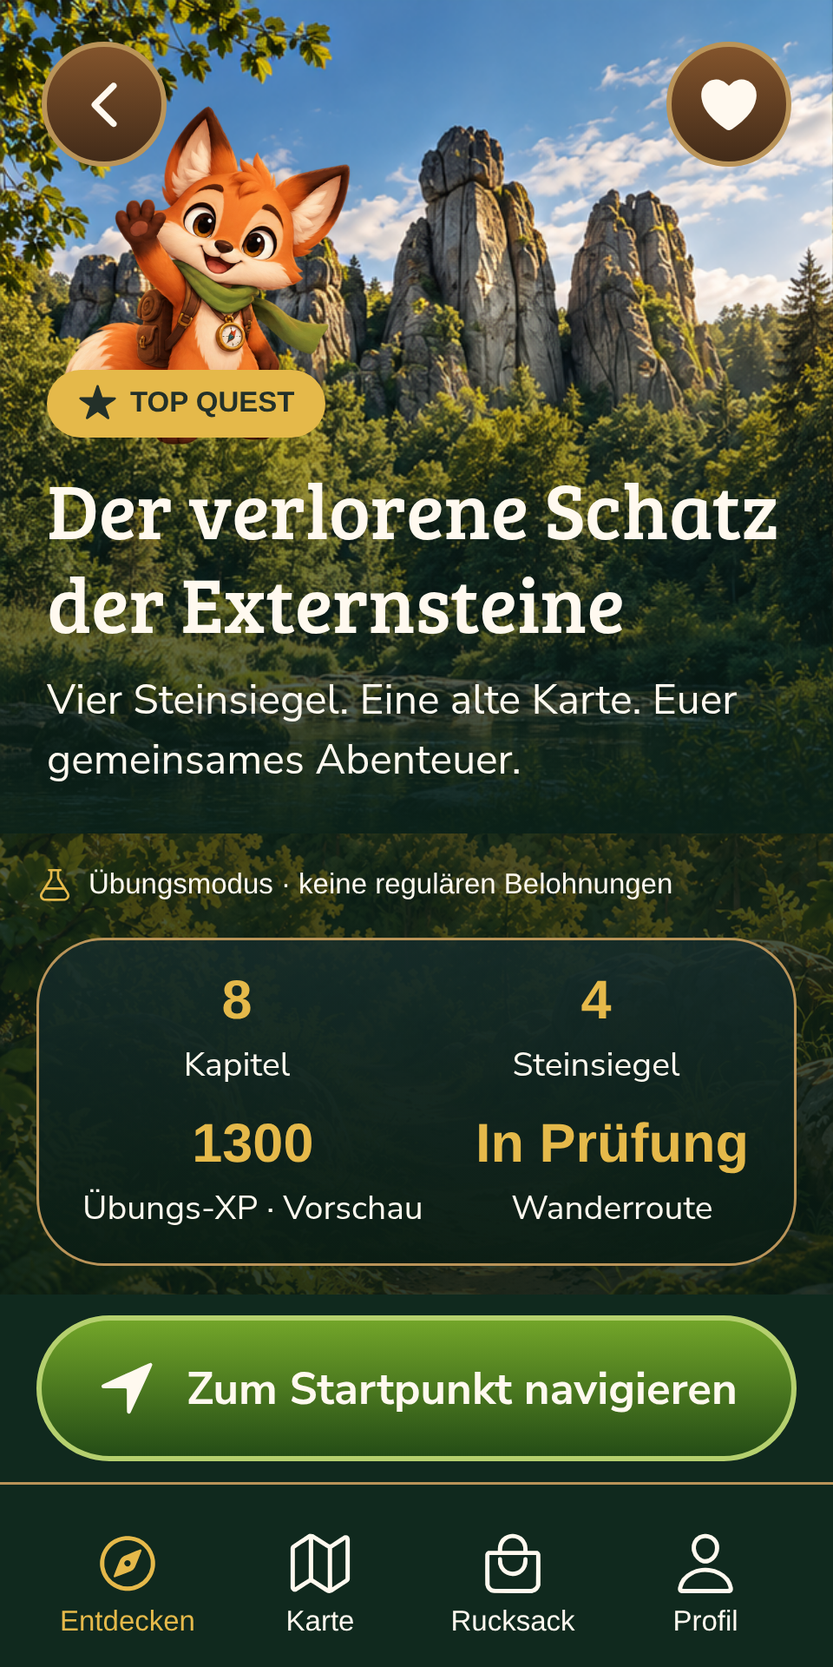
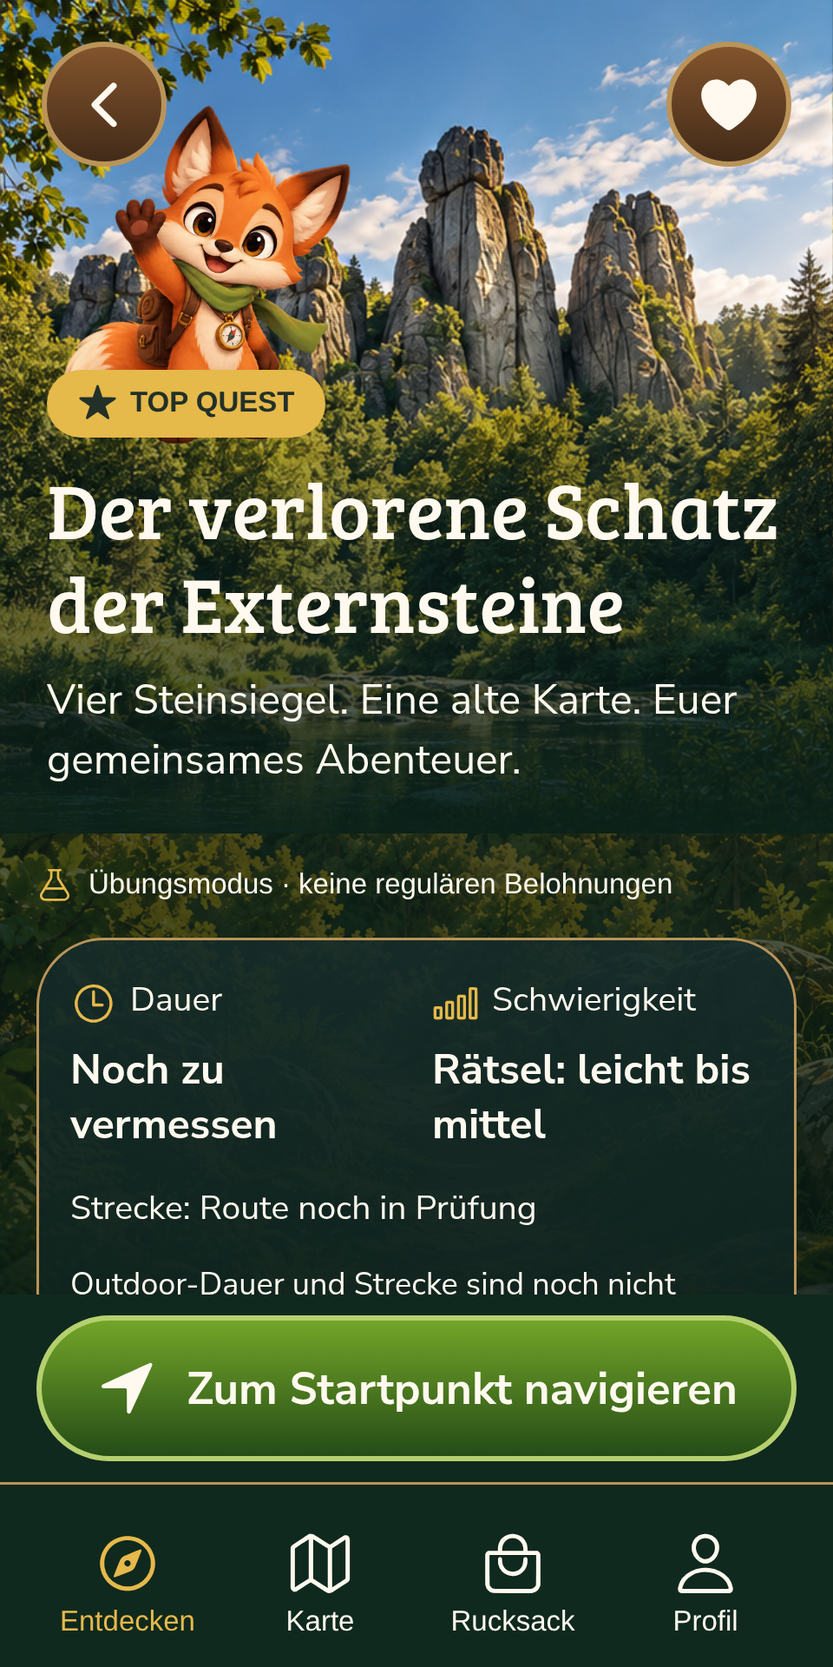
feat: show quest duration, difficulty and rating summary

diff --git a/src/components/quest-overview.tsx b/src/components/quest-overview.tsx
@@ -1,0 +1,140 @@
+import { Text, View } from "react-native";
+import type { Quest } from "@/domain/quest";
+import { AdventurePanel, adventure, gameStyles } from "./adventure-ui";
+import { Icon, type IconName } from "./ui";
+
+const number = new Intl.NumberFormat("de-DE", {
+  minimumFractionDigits: 1,
+  maximumFractionDigits: 1,
+});
+const countFormat = new Intl.NumberFormat("de-DE");
+
+export function QuestRating({ summary }: { summary?: Quest["ratingSummary"] }) {
+  const count = summary?.count;
+  const average = summary?.average;
+  const empty = count === 0 && average === null;
+  const rated =
+    typeof count === "number" &&
+    Number.isSafeInteger(count) &&
+    count > 0 &&
+    typeof average === "number" &&
+    Number.isFinite(average) &&
+    average >= 1 &&
+    average <= 5;
+  const display = rated ? number.format(average) : "—";
+  const stars = rated ? Math.round(average * 2) / 2 : 0;
+  const countLabel =
+    rated || empty
+      ? `${countFormat.format(count!)} ${count === 1 ? "Bewertung" : "Bewertungen"}`
+      : "Bewertungen noch nicht verfügbar";
+  return (
+    <View
+      style={{ gap: 5 }}
+      accessibilityRole="text"
+      accessibilityLabel={
+        rated
+          ? `${display} von 5 Sternen aus ${countLabel}`
+          : empty
+            ? "Noch keine Bewertungen, 0 Bewertungen"
+            : countLabel
+      }
+    >
+      <Text style={[gameStyles.body, { fontSize: 13 }]}>Bewertungen</Text>
+      <View
+        style={{
+          flexDirection: "row",
+          alignItems: "center",
+          gap: 12,
+          flexWrap: "wrap",
+        }}
+      >
+        <View
+          style={{ flexDirection: "row", gap: 3 }}
+          accessibilityElementsHidden
+          importantForAccessibility="no-hide-descendants"
+          aria-hidden
+        >
+          {Array.from({ length: 5 }, (_, index) => (
+            <Icon
+              key={index}
+              name={
+                stars >= index + 1
+                  ? "star"
+                  : stars >= index + 0.5
+                    ? "star-half"
+                    : "star-outline"
+              }
+              color={adventure.gold}
+              size={22}
+            />
+          ))}
+        </View>
+        <Text
+          style={{
+            color: adventure.gold,
+            fontSize: 21,
+            fontFamily: "NunitoSans_700Bold",
+          }}
+        >
+          {display} / 5
+        </Text>
+      </View>
+      <Text style={[gameStyles.body, { fontSize: 13, lineHeight: 18 }]}>
+        {countLabel}
+      </Text>
+      {empty && (
+        <Text style={[gameStyles.body, { fontSize: 13, lineHeight: 18 }]}>
+          Noch keine Bewertungen
+        </Text>
+      )}
+    </View>
+  );
+}
+
+export function QuestOverview({ quest }: { quest: Quest }) {
+  const facts: { label: string; value: string; icon: IconName }[] = [
+    { label: "Dauer", value: quest.duration, icon: "time-outline" },
+    {
+      label: "Schwierigkeit",
+      value: quest.difficulty,
+      icon: "cellular-outline",
+    },
+  ];
+  return (
+    <AdventurePanel style={{ padding: 12, gap: 12 }}>
+      <View style={{ flexDirection: "row", gap: 12 }}>
+        {facts.map(({ label, value, icon }) => (
+          <View key={label} style={{ flex: 1, minWidth: 0, gap: 5 }}>
+            <View
+              style={{ flexDirection: "row", alignItems: "center", gap: 5 }}
+            >
+              <Icon name={icon} color={adventure.gold} size={18} />
+              <Text style={[gameStyles.body, { fontSize: 13 }]}>{label}</Text>
+            </View>
+            <Text
+              style={[
+                gameStyles.body,
+                { fontFamily: "NunitoSans_700Bold", lineHeight: 21 },
+              ]}
+            >
+              {value}
+            </Text>
+          </View>
+        ))}
+      </View>
+      <Text style={[gameStyles.body, { fontSize: 13, lineHeight: 18 }]}>
+        Strecke: {quest.distance}
+      </Text>
+      {!quest.fieldReady && (
+        <Text style={[gameStyles.body, { fontSize: 12, lineHeight: 17 }]}>
+          Outdoor-Dauer und Strecke sind noch nicht bestätigt. Die Schwierigkeit
+          beschreibt die Rätsel.
+        </Text>
+      )}
+      <View
+        style={{ height: 1, backgroundColor: adventure.goldEdge, opacity: 0.6 }}
+      />
+      <QuestRating summary={quest.ratingSummary} />
+    </AdventurePanel>
+  );
+}

diff --git a/src/app/quest/details.tsx b/src/app/quest/details.tsx
@@ -16,6 +16,7 @@ import { Scene } from "@/components/artwork";
 import { PracticeEntry } from "@/components/practice-entry";
 import { LoadingState } from "@/components/ui";
 import { AdventureStatus } from "@/components/adventure-status";
+import { QuestOverview } from "@/components/quest-overview";
 import { WyldoCompanion } from "@/features/companion/wyldo-companion";
 import { useQuest } from "@/features/quest/provider";
 import { useAuth } from "@/features/auth/provider";
@@ -119,6 +120,11 @@ export default function QuestDetails() {
         </View>
       </View>
       <AdventureStatus />
+      <QuestOverview quest={quest} />
+      <AdventurePanel paper>
+        <Text style={gameStyles.paperTitle}>Über diese Quest</Text>
+        <Text style={gameStyles.paperBody}>{quest.story}</Text>
+      </AdventurePanel>
       <AdventurePanel
         style={{
           flexDirection: "row",
@@ -132,7 +138,6 @@ export default function QuestDetails() {
           ["8", "Kapitel"],
           ["4", "Steinsiegel"],
           [`${reward}`, "Übungs-XP · Vorschau"],
-          [quest.fieldReady ? quest.distance : "In Prüfung", "Wanderroute"],
         ].map(([value, label]) => (
           <View
             key={label}
@@ -148,10 +153,6 @@ export default function QuestDetails() {
             </Text>
           </View>
         ))}
-      </AdventurePanel>
-      <AdventurePanel paper>
-        <Text style={gameStyles.paperTitle}>Über diese Quest</Text>
-        <Text style={gameStyles.paperBody}>{quest.story}</Text>
       </AdventurePanel>
       <Text style={gameStyles.heading}>Dein Abenteuer</Text>
       <AdventureButton

diff --git a/src/__tests__/quest-rating.test.tsx b/src/__tests__/quest-rating.test.tsx
@@ -1,0 +1,38 @@
+import { expect, jest, test } from "@jest/globals";
+import { renderAsync } from "@testing-library/react-native";
+import { QuestRating } from "@/components/quest-overview";
+
+jest.mock("@expo/vector-icons/Ionicons", () => "Icon");
+
+test("published average and count are displayed in German and read together", async () => {
+  const ui = await renderAsync(
+    <QuestRating summary={{ average: 4.25, count: 1234 }} />,
+  );
+  expect(ui.getByText("4,3 / 5")).toBeTruthy();
+  expect(ui.getByText("1.234 Bewertungen")).toBeTruthy();
+  expect(
+    ui.getByLabelText("4,3 von 5 Sternen aus 1.234 Bewertungen"),
+  ).toBeTruthy();
+  expect(ui.queryAllByRole("button")).toHaveLength(0);
+  await ui.unmountAsync();
+});
+
+test("zero reviews have no invented average or zero-star score", async () => {
+  const ui = await renderAsync(
+    <QuestRating summary={{ average: null, count: 0 }} />,
+  );
+  expect(ui.getByText("Noch keine Bewertungen")).toBeTruthy();
+  expect(ui.getByText("0 Bewertungen")).toBeTruthy();
+  expect(ui.getByText("— / 5")).toBeTruthy();
+  expect(ui.queryByText("0,0 / 5")).toBeNull();
+  await ui.unmountAsync();
+});
+
+test("missing or invalid aggregates cannot masquerade as real player reviews", async () => {
+  const ui = await renderAsync(<QuestRating />);
+  expect(ui.getByText("Bewertungen noch nicht verfügbar")).toBeTruthy();
+  await ui.rerenderAsync(<QuestRating summary={{ average: 6, count: 10 }} />);
+  expect(ui.getByText("Bewertungen noch nicht verfügbar")).toBeTruthy();
+  expect(ui.queryByText("10 Bewertungen")).toBeNull();
+  await ui.unmountAsync();
+});

diff --git a/e2e/design.spec.ts b/e2e/design.spec.ts
@@ -57,6 +57,21 @@ test("discovery search, filters and bookmarks remain usable on a small screen", 
   await expect(
     page.getByRole("button", { name: "Quest gemerkt", exact: true }),
   ).toBeVisible();
+  await expect(page.getByText("Dauer", { exact: true })).toBeVisible();
+  await expect(page.getByText("Schwierigkeit", { exact: true })).toBeVisible();
+  await expect(
+    page.getByText("Rätsel: leicht bis mittel", { exact: true }),
+  ).toBeVisible();
+  await expect(
+    page.getByText("Noch zu vermessen", { exact: true }),
+  ).toBeVisible();
+  await expect(
+    page.getByText("Strecke: Route noch in Prüfung", { exact: true }),
+  ).toBeVisible();
+  await expect(
+    page.getByText("Noch keine Bewertungen", { exact: true }),
+  ).toBeVisible();
+  await expect(page.getByText("0 Bewertungen", { exact: true })).toBeVisible();
   await shot(page, "02-quest-details");
   await page.setViewportSize({ width: 320, height: 640 });
   await shot(page, "02-quest-details-small");

diff --git a/docs/design-review.html b/docs/design-review.html
@@ -117,9 +117,11 @@
     <section id="details">
       <h2>Questdetails</h2>
       <p>
-        Geschichte und Aktionen sind scrollbar, die Navigation zum Startpunkt
-        bleibt erreichbar. Ungeprüfte Strecke und Dauer werden nicht als
-        gemessene Daten übernommen.
+        Dauer, Strecke, Rätsel-Schwierigkeit und Sterneübersicht mit
+        Bewertungsanzahl stehen direkt unter dem Questbild. Ohne vorhandene
+        Rezensionen bleibt die Wertung leer. Geschichte und Aktionen sind
+        scrollbar, die Navigation zum Startpunkt bleibt erreichbar. Ungeprüfte
+        Strecke und Dauer werden nicht als gemessene Daten übernommen.
       </p>
       <div class="pair">
         <figure>

diff --git a/src/domain/quest.ts b/src/domain/quest.ts
@@ -51,6 +51,8 @@ export type Quest = {
   duration: string;
   distance: string;
   difficulty: string;
+  // Read-only aggregate supplied by the quest data source; no player reviews here.
+  ratingSummary?: { average: number | null; count: number };
   preparation: string[];
   start: string;
   approval: "pending_source_review" | "approved";

diff --git a/docs/design-review.md b/docs/design-review.md
@@ -22,6 +22,12 @@ Der Paket-Seed enthält fünf Alva-/Sternenkompass-Stationen und ungeprüfte Ort
 
 Die Übungs-XP sind ausschließlich eine UI-Vorschau aus dem vorhandenen lokalen Fortschritt (100 je Station, 500 beim Übungsfinale, 600 je Vorschaulevel). Sie schreiben keine regulären XP, kein Abzeichen und keine neue Datenbanktabelle. Der spätere XP-Vertrag muss nach Designfreigabe abgestimmt werden. Pause besitzt hier ebenfalls noch keinen neuen serverseitigen Pausenzustand.
 
+## Ergänzung nach Nutzerfeedback: Questangaben und Sterne
+
+Dauer, Strecke und Rätsel-Schwierigkeit sind unmittelbar unter dem Questbild sichtbar. Eine wiederverwendbare Sterneübersicht zeigt den gelieferten Durchschnitt und die Anzahl der Bewertungen; die ausdrücklich gewählte Variante ist rein lesend. Der Entwurf enthält `average: null, count: 0`, entsprechend **keine erfundene Wertung**. Fehlende/ungültige Aggregate werden als nicht verfügbar ausgewiesen. Es gibt noch keine Erfassung oder Live-Aggregation von Rezensionen; der Datenvertrag ist in [Backend](backend.md#questangaben-und-sterneübersicht) beschrieben.
+
+Dauer bleibt „Noch zu vermessen“, Strecke „Route noch in Prüfung“, Schwierigkeit „Rätsel: leicht bis mittel“. Die Freigabe der tatsächlichen Route und ihrer Zeitangaben bleibt offen. Die beiden Detail-Screenshots wurden nach der Ergänzung auf 360×800 und 320×640 aktualisiert; Story und Navigation bleiben nutzbar.
+
 ## Visueller Abgleich
 
 [Referenz und tatsächliche Aufnahme nebeneinander](design-review.html). Die Screenshots stammen aus laufendem Expo Web in Chromium mit mobiler Emulation; keine montierten Mockups. Texte und Bedienelemente sind echte React-Native-Komponenten.
@@ -39,16 +45,16 @@ Bewusste Abweichungen: nur die tatsächlich vorhandene Quest; kein erfundener Li
 
 ## Prüfungen
 
-| Prüfung                    | Tatsächliches Ergebnis                                                                                                                                                                                                                                                                                      |
-| -------------------------- | ----------------------------------------------------------------------------------------------------------------------------------------------------------------------------------------------------------------------------------------------------------------------------------------------------------- |
-| Saubere Installation       | `npm ci --include=dev --no-fund`: 1196 Pakete, erfolgreich mit Node 24.19.0/npm 11.9.0. Transitive Deprecation-Hinweise blockieren den Start nicht.                                                                                                                                                         |
-| TypeScript / ESLint        | `npm run typecheck` und `npm run lint`: bestanden, keine Warnungen.                                                                                                                                                                                                                                         |
-| Unit-/Komponentenprüfungen | 42 Tests in neun Suiten bestanden: bestehende Quest-/Auth-/Dialogregeln plus Peilung, Rotation, ungenaues/veraltetes GPS, verifizierte Ziele, virtuelle Distanz, Sensorabbau bei Fokusverlust, gespeicherte Merkliste und XP-Vorschau.                                                                      |
-| Datenbankregression        | 40 PostgreSQL-Assertions mit PGlite bestanden: Seed, RLS, private Lösungen, GPS-/Reihenfolgeregeln, idempotente Abschlüsse und Ausschluss regulärer Übungsabzeichen. Keine echte Supabase-API angesprochen.                                                                                                 |
-| Browser                    | Alle acht Playwright-Fälle bestanden: SDK-57-Manifest, kompletter Acht-Stationen-Übungslauf, Hinweise/Untertitel/Stumm/Skip/Finale, Persistenz, Offline/Reconnect, Formulare/geschützte Route, Suche/Filter/Merkliste, Kartenwechsel/virtuelle Navigation/Pause, Kartenfehler/Retry und native HTML-Bridge. |
-| Sichtprüfung               | Alle drei Masken und Kartenmodus manuell anhand der erzeugten Browseraufnahmen mit den Originalreferenzen verglichen; zusätzlich 320×640. Kein horizontaler Dokumentüberlauf; Hauptaktionen und Entfernung geprüft. Keine Pixel-Diff- oder native Gerätetest-Behauptung.                                    |
-| Exports                    | Web sowie iOS-/Android-Hermes-Export erfolgreich. Produktions-Webbundle enthält keine Entwicklungsquest/Antwortfixtures (`npm run check:release`). Das sind keine signierten Apps und keine Gerätetests.                                                                                                    |
-| Formatierung               | Prettier und `git diff --check`: bestanden.                                                                                                                                                                                                                                                                 |
+| Prüfung                    | Tatsächliches Ergebnis                                                                                                                                                                                                                                                                                                |
+| -------------------------- | --------------------------------------------------------------------------------------------------------------------------------------------------------------------------------------------------------------------------------------------------------------------------------------------------------------------- |
+| Saubere Installation       | `npm ci --include=dev --no-fund`: 1196 Pakete, erfolgreich mit Node 24.19.0/npm 11.9.0. Transitive Deprecation-Hinweise blockieren den Start nicht.                                                                                                                                                                   |
+| TypeScript / ESLint        | `npm run typecheck` und `npm run lint`: bestanden, keine Warnungen.                                                                                                                                                                                                                                                   |
+| Unit-/Komponentenprüfungen | 45 Tests in zehn Suiten bestanden: bestehende Quest-/Auth-/Dialogregeln plus Peilung, Rotation, ungenaues/veraltetes GPS, verifizierte Ziele, virtuelle Distanz, Sensorabbau bei Fokusverlust, gespeicherte Merkliste und XP-Vorschau; zusätzlich Sterneformatierung, leere sowie fehlende/ungültige Bewertungsdaten. |
+| Datenbankregression        | 40 PostgreSQL-Assertions mit PGlite bestanden: Seed, RLS, private Lösungen, GPS-/Reihenfolgeregeln, idempotente Abschlüsse und Ausschluss regulärer Übungsabzeichen. Keine echte Supabase-API angesprochen.                                                                                                           |
+| Browser                    | Alle acht Playwright-Fälle bestanden: SDK-57-Manifest, kompletter Acht-Stationen-Übungslauf, Hinweise/Untertitel/Stumm/Skip/Finale, Persistenz, Offline/Reconnect, Formulare/geschützte Route, Suche/Filter/Merkliste, Kartenwechsel/virtuelle Navigation/Pause, Kartenfehler/Retry und native HTML-Bridge.           |
+| Sichtprüfung               | Alle drei Masken und Kartenmodus manuell anhand der erzeugten Browseraufnahmen mit den Originalreferenzen verglichen; zusätzlich 320×640. Kein horizontaler Dokumentüberlauf; Hauptaktionen und Entfernung geprüft. Keine Pixel-Diff- oder native Gerätetest-Behauptung.                                              |
+| Exports                    | Web sowie iOS-/Android-Hermes-Export erfolgreich. Produktions-Webbundle enthält keine Entwicklungsquest/Antwortfixtures (`npm run check:release`). Das sind keine signierten Apps und keine Gerätetests.                                                                                                              |
+| Formatierung               | Prettier und `git diff --check`: bestanden.                                                                                                                                                                                                                                                                           |
 
 Browserprüfungen verwenden ausschließlich Übungsfortschritt und synthetische Testdaten; keine echten Benutzerkonten oder Remote-Migrationen. Die letzten schmalen Buttonlabels wurden nach der Sichtprüfung korrigiert und mit den betroffenen zwei Browserfällen erneut geprüft.
 

diff --git a/docs/reviews/design-pr.md b/docs/reviews/design-pr.md
@@ -4,6 +4,8 @@ Die bisherige Oberfläche weicht von den freigegebenen Wyldo-Mockups ab. Dieser 
 
 Der neueste Auftrag begrenzt diesen PR auf Phasen 1–3 und verlangt anschließend Designfreigabe. Automatischer Ankunfts-/Introfluss, neue Quest-Engine, reguläres XP-Backend und vollständige neue Rucksack-/Profilmasken bleiben zurückgestellt. Die vorhandene Acht-Stationen-Übung sowie Auth-, Offline- und Abzeichenregeln bleiben erhalten. Die Navigationsvorschau schaltet keine Station automatisch frei. Übungs-XP sind nur eine Vorschau.
 
-Validierung: saubere Lockfile-Installation, TypeScript/ESLint, 42 Jest-Tests, 40 PGlite-Assertions und acht Playwright-Fälle bestanden. Komplette Übung einschließlich Offline/Neustart erneut durchgespielt. Web-/iOS-/Android-Exports und Ausschluss der Entwicklungsfixtures aus dem Produktions-Webbundle bestanden. Drei Masken gegen die Referenzen verglichen, 320-Pixel-Layouts korrigiert. Keine echte Smartphone-/Supabase-/Google-Abnahme.
+Ergänzung nach Nutzerfeedback: Dauer, Strecke und Rätsel-Schwierigkeit stehen direkt unter dem Questbild. Die reine Sterneübersicht zeigt gelieferte Durchschnitts-/Anzahldaten und einen ehrlichen Leerzustand bei null Bewertungen. Keine Bewertungseingabe oder Live-Rezensionsaggregation. Die ungeprüfte Dauer und Strecke bleiben gekennzeichnet.
+
+Validierung: saubere Lockfile-Installation, TypeScript/ESLint, 45 Jest-Tests, 40 PGlite-Assertions und acht Playwright-Fälle bestanden. Komplette Übung einschließlich Offline/Neustart erneut durchgespielt. Web-/iOS-/Android-Exports und Ausschluss der Entwicklungsfixtures aus dem Produktions-Webbundle bestanden. Drei Masken gegen die Referenzen verglichen, 320-Pixel-Layouts korrigiert. Keine echte Smartphone-/Supabase-/Google-Abnahme.
 
 Review: [Prüfbericht](https://github.com/carljust/wanderquest/blob/feat/wyldo-adventure-design-review/docs/design-review.md), [Bildvergleich](https://github.com/carljust/wanderquest/blob/feat/wyldo-adventure-design-review/docs/design-review.html), [Screenshots](https://github.com/carljust/wanderquest/tree/feat/wyldo-adventure-design-review/docs/screenshots/design-v1). Verbindliche Referenz: `docs/wyldo_codex_designpaket_v1/` aus `3234cff`. Acht Stationsorte und Wanderweg benötigen weiterhin Freigabe/Begehung; ein Character-Rig und öffentlicher Supabase-Key fehlen. **Bitte zuerst das Design freigeben; noch nicht mit dem weiteren Ausbau beginnen.**

diff --git a/docs/backend.md b/docs/backend.md
@@ -30,3 +30,11 @@ Das gelieferte Mockup und die Charakterreferenz sind inzwischen berücksichtigt.
 Der aktuelle Generator setzt absichtlich `draft`, `pending_source_review`, `field_ready=false` und keine Koordinaten. Er ist für den vorhandenen Entwurf bestimmt und **kein Freigabewerkzeug**. Die spätere freigegebene Version braucht eine eigene Datenmigration, die normalisierte Stationskoordinaten und das öffentliche Dokument konsistent einfügt, Lösungen/Feedback privat ablegt und erst zum Schluss veröffentlicht. Ein bloßes Umschalten von `status` wäre keine fachliche Freigabe. Die App und Startfunktion blockieren unvollständig freigegebene Daten.
 
 Vor Produktivbetrieb echte Registrierung, Bestätigung, Login, Recovery-Link und Logout auf beiden Plattformen prüfen; SMTP-/Rate-Limits sowie Datenschutzkontakt und Kontolöschprozess einrichten. Diese administrativen Schritte sind noch offen.
+
+## Questangaben und Sterneübersicht
+
+Die Detailansicht liest `duration`, `distance` und `difficulty` unmittelbar aus den zentralen Questdaten. Unvermessene Angaben bleiben unvermessen; Mockup-Minuten und Kilometer werden nicht als geprüfte Route ausgegeben. Die Schwierigkeit des aktuellen Entwurfs beschreibt die Rätsel, nicht das Gelände.
+
+Die reine Sterneanzeige liest das optionale `ratingSummary` im Questdokument: `{ "average": null, "count": 0 }` bedeutet ausdrücklich noch keine Bewertungen, mit leeren Sternen und ohne erfundenen Durchschnitt. Bei vorhandenen echten Daten werden `average` (1–5) und ganzzahliges positives `count` deutsch formatiert angezeigt. Fehlende oder ungültige Daten erscheinen als nicht verfügbar. Die Beispielquest und ihr wiederholbarer Seed enthalten null Bewertungen.
+
+Diese Ergänzung enthält wie gewünscht **keine Eingabe eigener Sterne**, keine Bewertungstabelle und keine automatische Live-Aggregation von Spielerrezensionen. Solange keine echten Bewertungsdaten bereitgestellt werden, bleibt die Anzeige leer. Es wurden keine Remote-Daten verändert. Ein späteres Bewertungsbackend sollte eigene veränderliche Aggregate liefern, statt veröffentlichte Storyversionen für jeden neuen Stern zu ändern.

diff --git a/README.md b/README.md
@@ -6,7 +6,7 @@ Eine Outdoor-Abenteuer-App für iOS und Android mit Expo SDK 57, React Native, T
 
 ## Designreview – Phasen 1–3
 
-Der Branch `feat/wyldo-adventure-design-review` enthält das neue Designsystem, Entdecken mit Suche/Filtern/Merkliste, Questdetails und Karte/Richtung nach `docs/wyldo_codex_designpaket_v1/`. [Änderungen, tatsächliche Prüfungen und Screenshots](docs/design-review.md) · [Direkter Bildvergleich](docs/design-review.html). Der weitere Ausbau wartet auf Designfreigabe.
+Der Branch `feat/wyldo-adventure-design-review` enthält das neue Designsystem, Entdecken mit Suche/Filtern/Merkliste, Questdetails und Karte/Richtung nach `docs/wyldo_codex_designpaket_v1/`. [Änderungen, tatsächliche Prüfungen und Screenshots](docs/design-review.md) · [Direkter Bildvergleich](docs/design-review.html). Der weitere Ausbau wartet auf Designfreigabe. Die Questdetails zeigen Dauer, Strecke und Rätsel-Schwierigkeit direkt unter dem Bild sowie eine Sterneübersicht mit Durchschnitt und Bewertungsanzahl. Der Entwurf hat aktuell null Bewertungen; Dauer und Strecke sind noch nicht bestätigt.
 
 Zum Prüfen dieses Standes im vorhandenen Checkout: eigene lokale Änderungen vorher sichern, `git fetch origin`, dann `git switch --track origin/feat/wyldo-adventure-design-review` (oder den bereits vorhandenen lokalen Branch mit `git switch feat/wyldo-adventure-design-review` öffnen). Danach `npm ci --include=dev` und `npm run start:phone`. Den nachfolgenden Main-Pull beim Branchreview auslassen.
 
